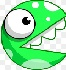
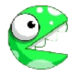
images now have transparent background

diff --git a/ChatGPT Generated Code.py b/ChatGPT Generated Code.py
@@ -1,0 +1,91 @@
+import pygame
+import random
+
+# Initialize Pygame
+pygame.init()
+
+# Define some constants for the game window
+WINDOW_WIDTH = 800
+WINDOW_HEIGHT = 600
+BG_COLOR = (0, 0, 0)
+
+# Create the game window
+screen = pygame.display.set_mode((WINDOW_WIDTH, WINDOW_HEIGHT))
+pygame.display.set_caption("Space Invaders")
+
+# Create the player
+player_img = pygame.image.load("player.png")
+player_x = WINDOW_WIDTH // 2 - player_img.get_width() // 2
+player_y = WINDOW_HEIGHT - player_img.get_height()
+player_speed = 5
+
+# Create the enemies
+enemy_img = pygame.image.load("enemy.png")
+enemies = []
+for i in range(10):
+    enemy_x = random.randint(0, WINDOW_WIDTH - enemy_img.get_width())
+    enemy_y = random.randint(50, 200)
+    enemies.append((enemy_x, enemy_y))
+
+# Create the bullets
+bullet_img = pygame.image.load("bullet.png")
+bullets = []
+
+# Create the main game loop
+running = True
+while running:
+    # Handle events
+    for event in pygame.event.get():
+        if event.type == pygame.QUIT:
+            running = False
+        elif event.type == pygame.KEYDOWN:
+            if event.key == pygame.K_SPACE:
+                bullet_x = player_x + player_img.get_width() // 2 - bullet_img.get_width() // 2
+                bullet_y = player_y
+                bullets.append((bullet_x, bullet_y))
+
+    # Move the player
+    keys = pygame.key.get_pressed()
+    if keys[pygame.K_LEFT] and player_x > 0:
+        player_x -= player_speed
+    elif keys[pygame.K_RIGHT] and player_x < WINDOW_WIDTH - player_img.get_width():
+        player_x += player_speed
+
+    # Move the bullets
+    for bullet in bullets:
+        bullet_x, bullet_y = bullet
+        bullet_y -= 10
+        bullet = (bullet_x, bullet_y)
+        if bullet_y < 0:
+            bullets.remove(bullet)
+        else:
+            bullet_rect = bullet_img.get_rect().move(bullet_x, bullet_y)
+            for enemy in enemies:
+                enemy_rect = enemy_img.get_rect().move(enemy)
+                if bullet_rect.colliderect(enemy_rect):
+                    enemies.remove(enemy)
+                    bullets.remove(bullet)
+                    break
+
+    # Move the enemies
+    for i, enemy in enumerate(enemies):
+        enemy_x, enemy_y = enemy
+        enemy_x += random.randint(-5, 5)
+        if enemy_x < 0:
+            enemy_x = 0
+        elif enemy_x > WINDOW_WIDTH - enemy_img.get_width():
+            enemy_x = WINDOW_WIDTH - enemy_img.get_width()
+        enemy_y += 5
+        enemies[i] = (enemy_x, enemy_y)
+
+    # Draw the screen
+    screen.fill(BG_COLOR)
+    screen.blit(player_img, (player_x, player_y))
+    for enemy in enemies:
+        screen.blit(enemy_img, enemy)
+    for bullet in bullets:
+        screen.blit(bullet_img, bullet)
+    pygame.display.flip()
+
+# Clean up
+pygame.quit()

diff --git a/main.py b/main.py
@@ -3,9 +3,11 @@ import pygame
 from Cursor import Cursor, Projectile
 from Snake import Snake
 
+
 # pygame setup
 pygame.init()
 screen = pygame.display.set_mode((1280, 720))
+
 clock = pygame.time.Clock()
 running = True
 dt = 0
@@ -29,7 +31,7 @@ while running:
             running = False
 
     # fill the screen with a color to wipe away anything from last frame
-    screen.fill("White")
+    screen.fill("Black")
 
 
 
@@ -51,21 +53,26 @@ while running:
         # we do not create the object before this because we do not want it to appear on screen until space key has been placed
         # object could have been initialized and hidden in the beginning if we set it's starting position to off the screen, but then we would be stuck with a single projectile object
 
-        proj_list.append(Projectile(screen, [player.get_posx()+player.get_width()//2, player.get_posy()-10]))
+        proj_list.append(Projectile(screen, [player.get_posx()-player.get_width()/2.5, player.get_posy()-10]))
         shot_fired = True
 
 
-    # the player's character has to be drawn onto the screen every frame otherwise it will never appear or move
-    player.draw()
+    # we only want to draw the pojectiles when the "fire" command key has been pressed
+    # when a projectile has reached it's maximum distance it will inform main it is ready for deletion
     if shot_fired == True:
         for item in proj_list:
             if item.draw_projectile() == "delete":
                 proj_list.remove(item)
                 del item
 
+
+    # the player's character has to be drawn onto the screen every frame otherwise it will never appear or move
+    player.draw()
+    
     snake.draw()
 
     # flip() the display to put your work on screen
+
     pygame.display.flip()
 
 
@@ -73,5 +80,6 @@ while running:
     # dt is delta time in seconds since last frame, used for framerate-
     # independent physics.
     dt = clock.tick(60) / 1000
+
 
 pygame.quit()

diff --git a/Snake.py b/Snake.py
@@ -3,11 +3,31 @@ import pygame
 class Snake():
     def __init__(self, surface):
         self.screen = surface
-        self.x_position = 0
-        self.y_position = 0
-        self.image = pygame.image.load("snake_head.png")
+        self.x_position = 200
+        self.y_position = 200
+        self.head = pygame.image.load("snake_head.png")
+        self.body = pygame.image.load("green_sphere.png")
+        self.body_seg_positions =[(40,10),(20,30)]
         self.speed = 5
         self.length = 5
 
     def draw(self):
-        self.screen.blit(self.image, (self.x_position, self.y_position))
+        # Blit in reverse order so that the body does not overlap the head
+        for item in self.body_seg_positions:
+            self.screen.blit(self.body, item)
+        self.screen.blit(self.head, (self.x_position, self.y_position))
+
+    def get_head_width(self):
+        return self.head.get_width()
+
+    def get_head_height(self):
+        return self.head.get_height()
+
+    def set_head_xpos(self, xpos):
+        setattr(self, "x_position", xpos)
+
+    def set_head_ypos(self, ypos):
+        setattr(self, "y_position", ypos)
+
+    def set_body_pos(self):
+        pass

diff --git a/Cursor.py b/Cursor.py
@@ -54,7 +54,6 @@ class Projectile():
 
     def draw_projectile(self):
         """Draws the projectile onto the screen then after it has reached it's maximum allowed travel distance returns the informative text 'delete'"""
-        # pygame.draw.circle(self.screen, "red", [self.position_x, self.position_y], self.size)
         self.screen.blit(self.image, (self.position_x, self.position_y))
         setattr(self, "position_y", self.position_y - self.projectile_speed)
         if self.start_posy - self.position_y > self.fire_distance:
